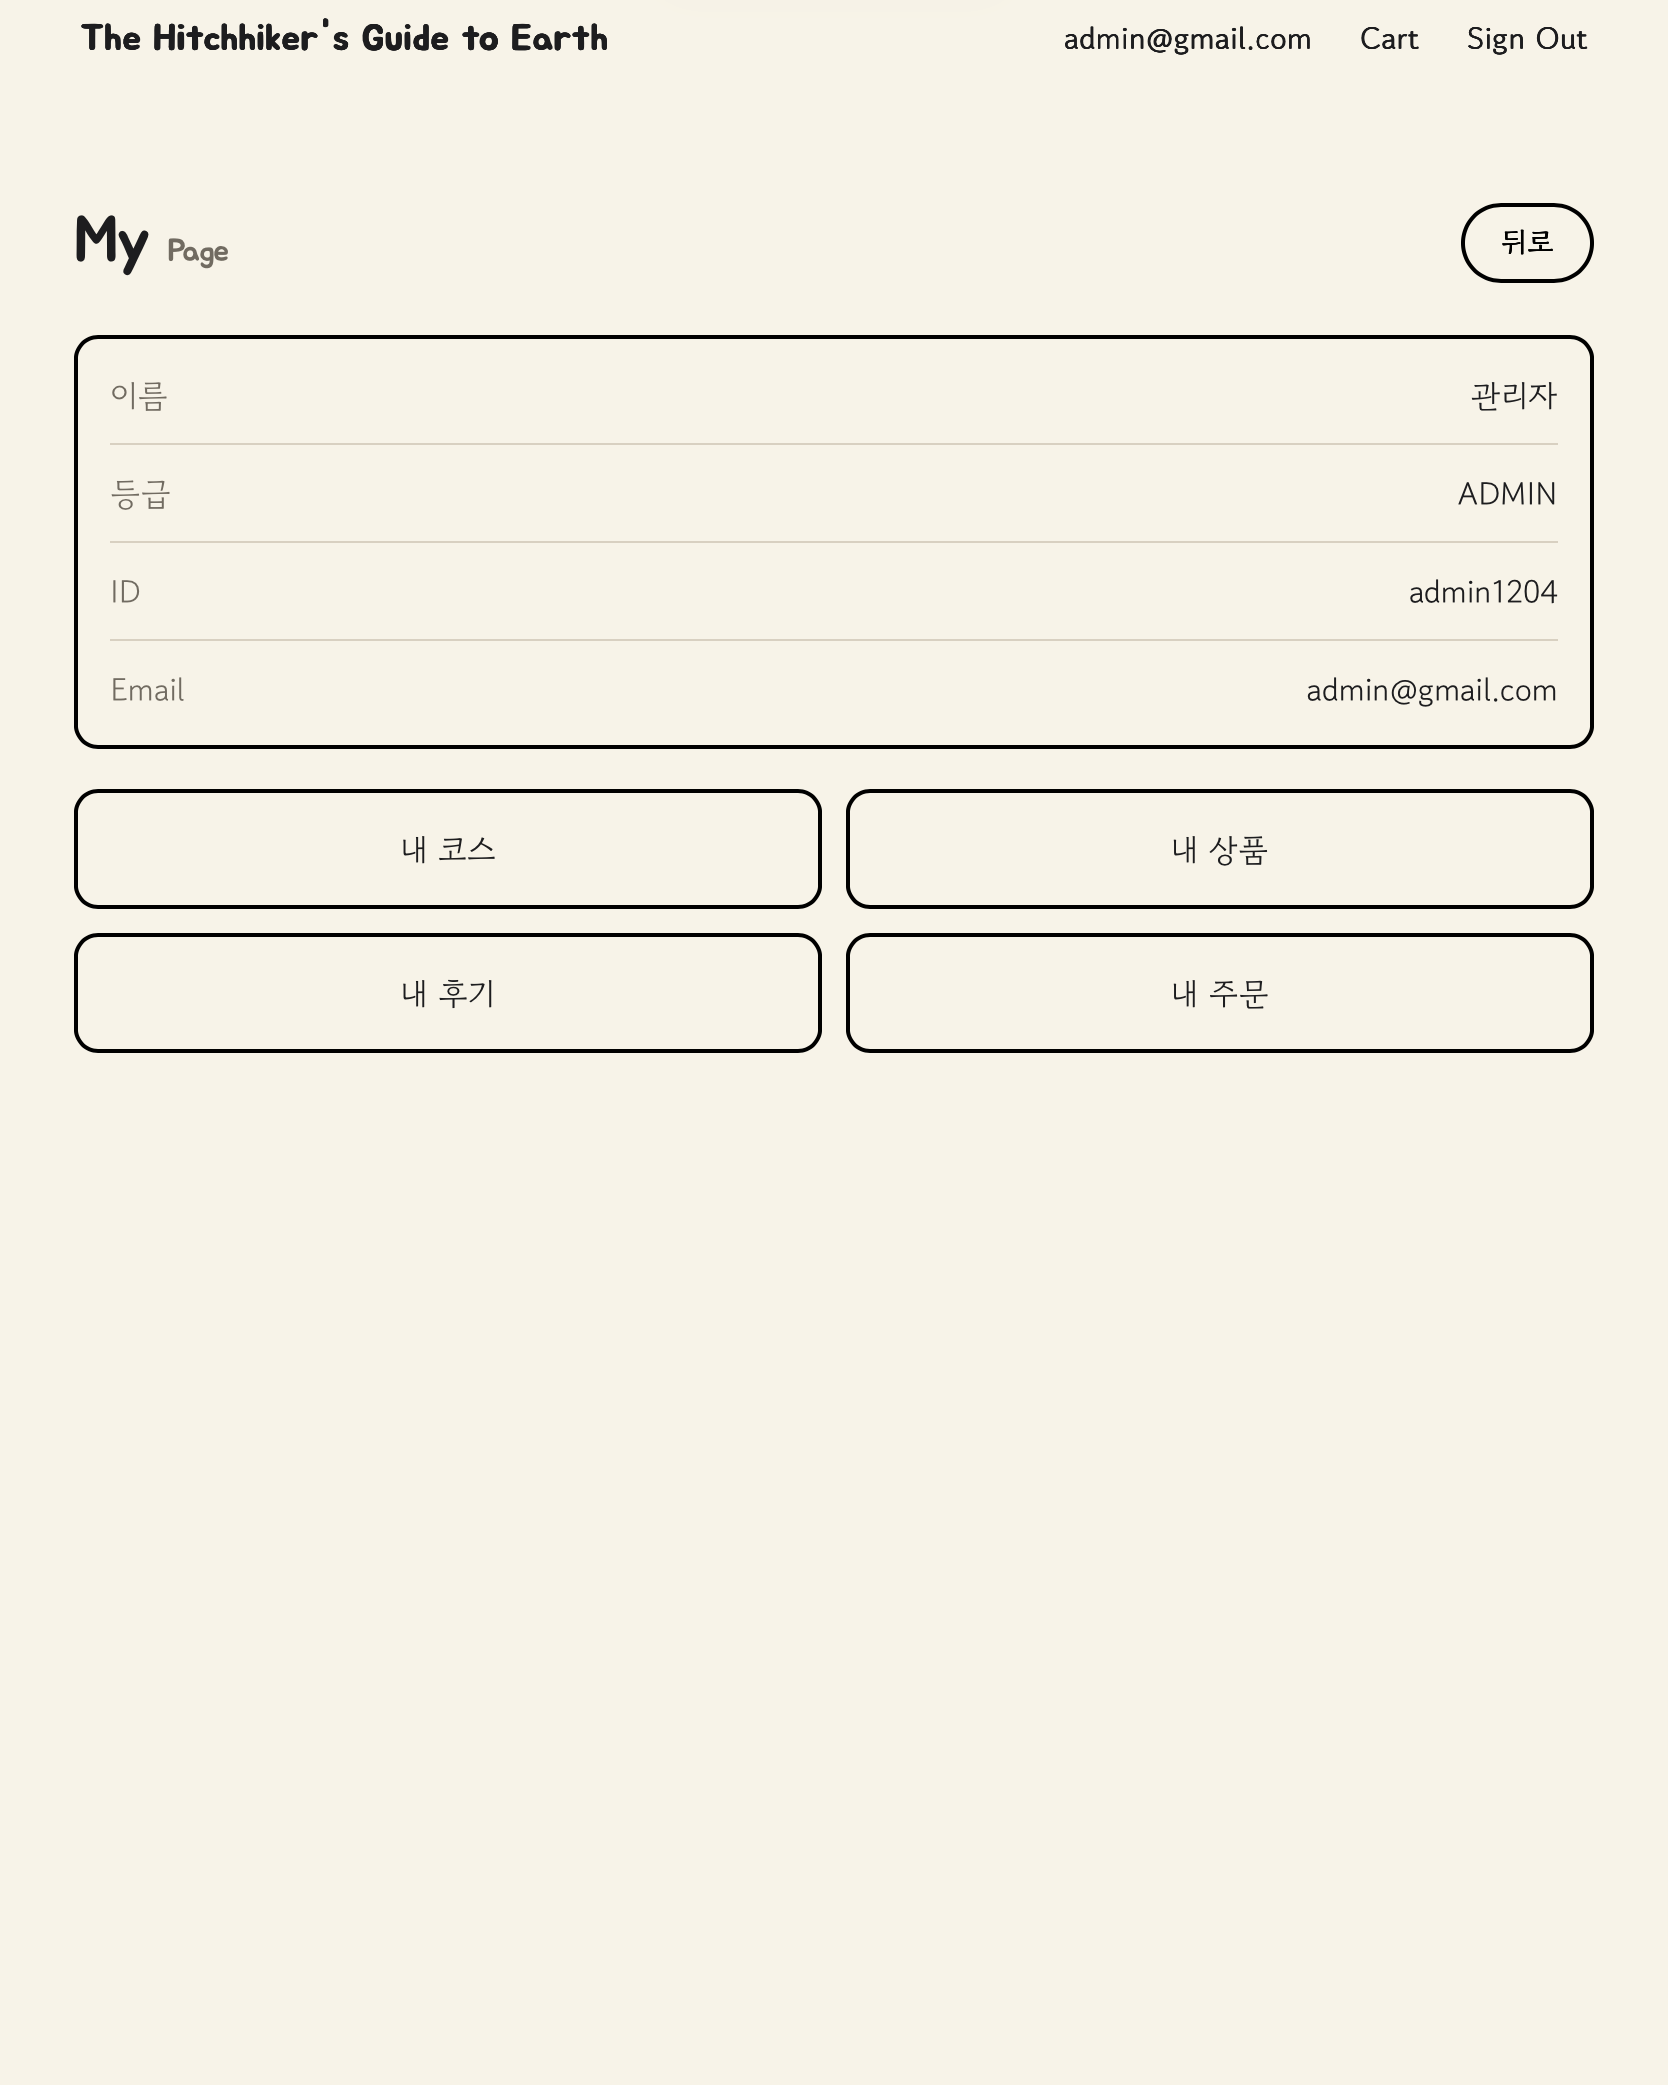
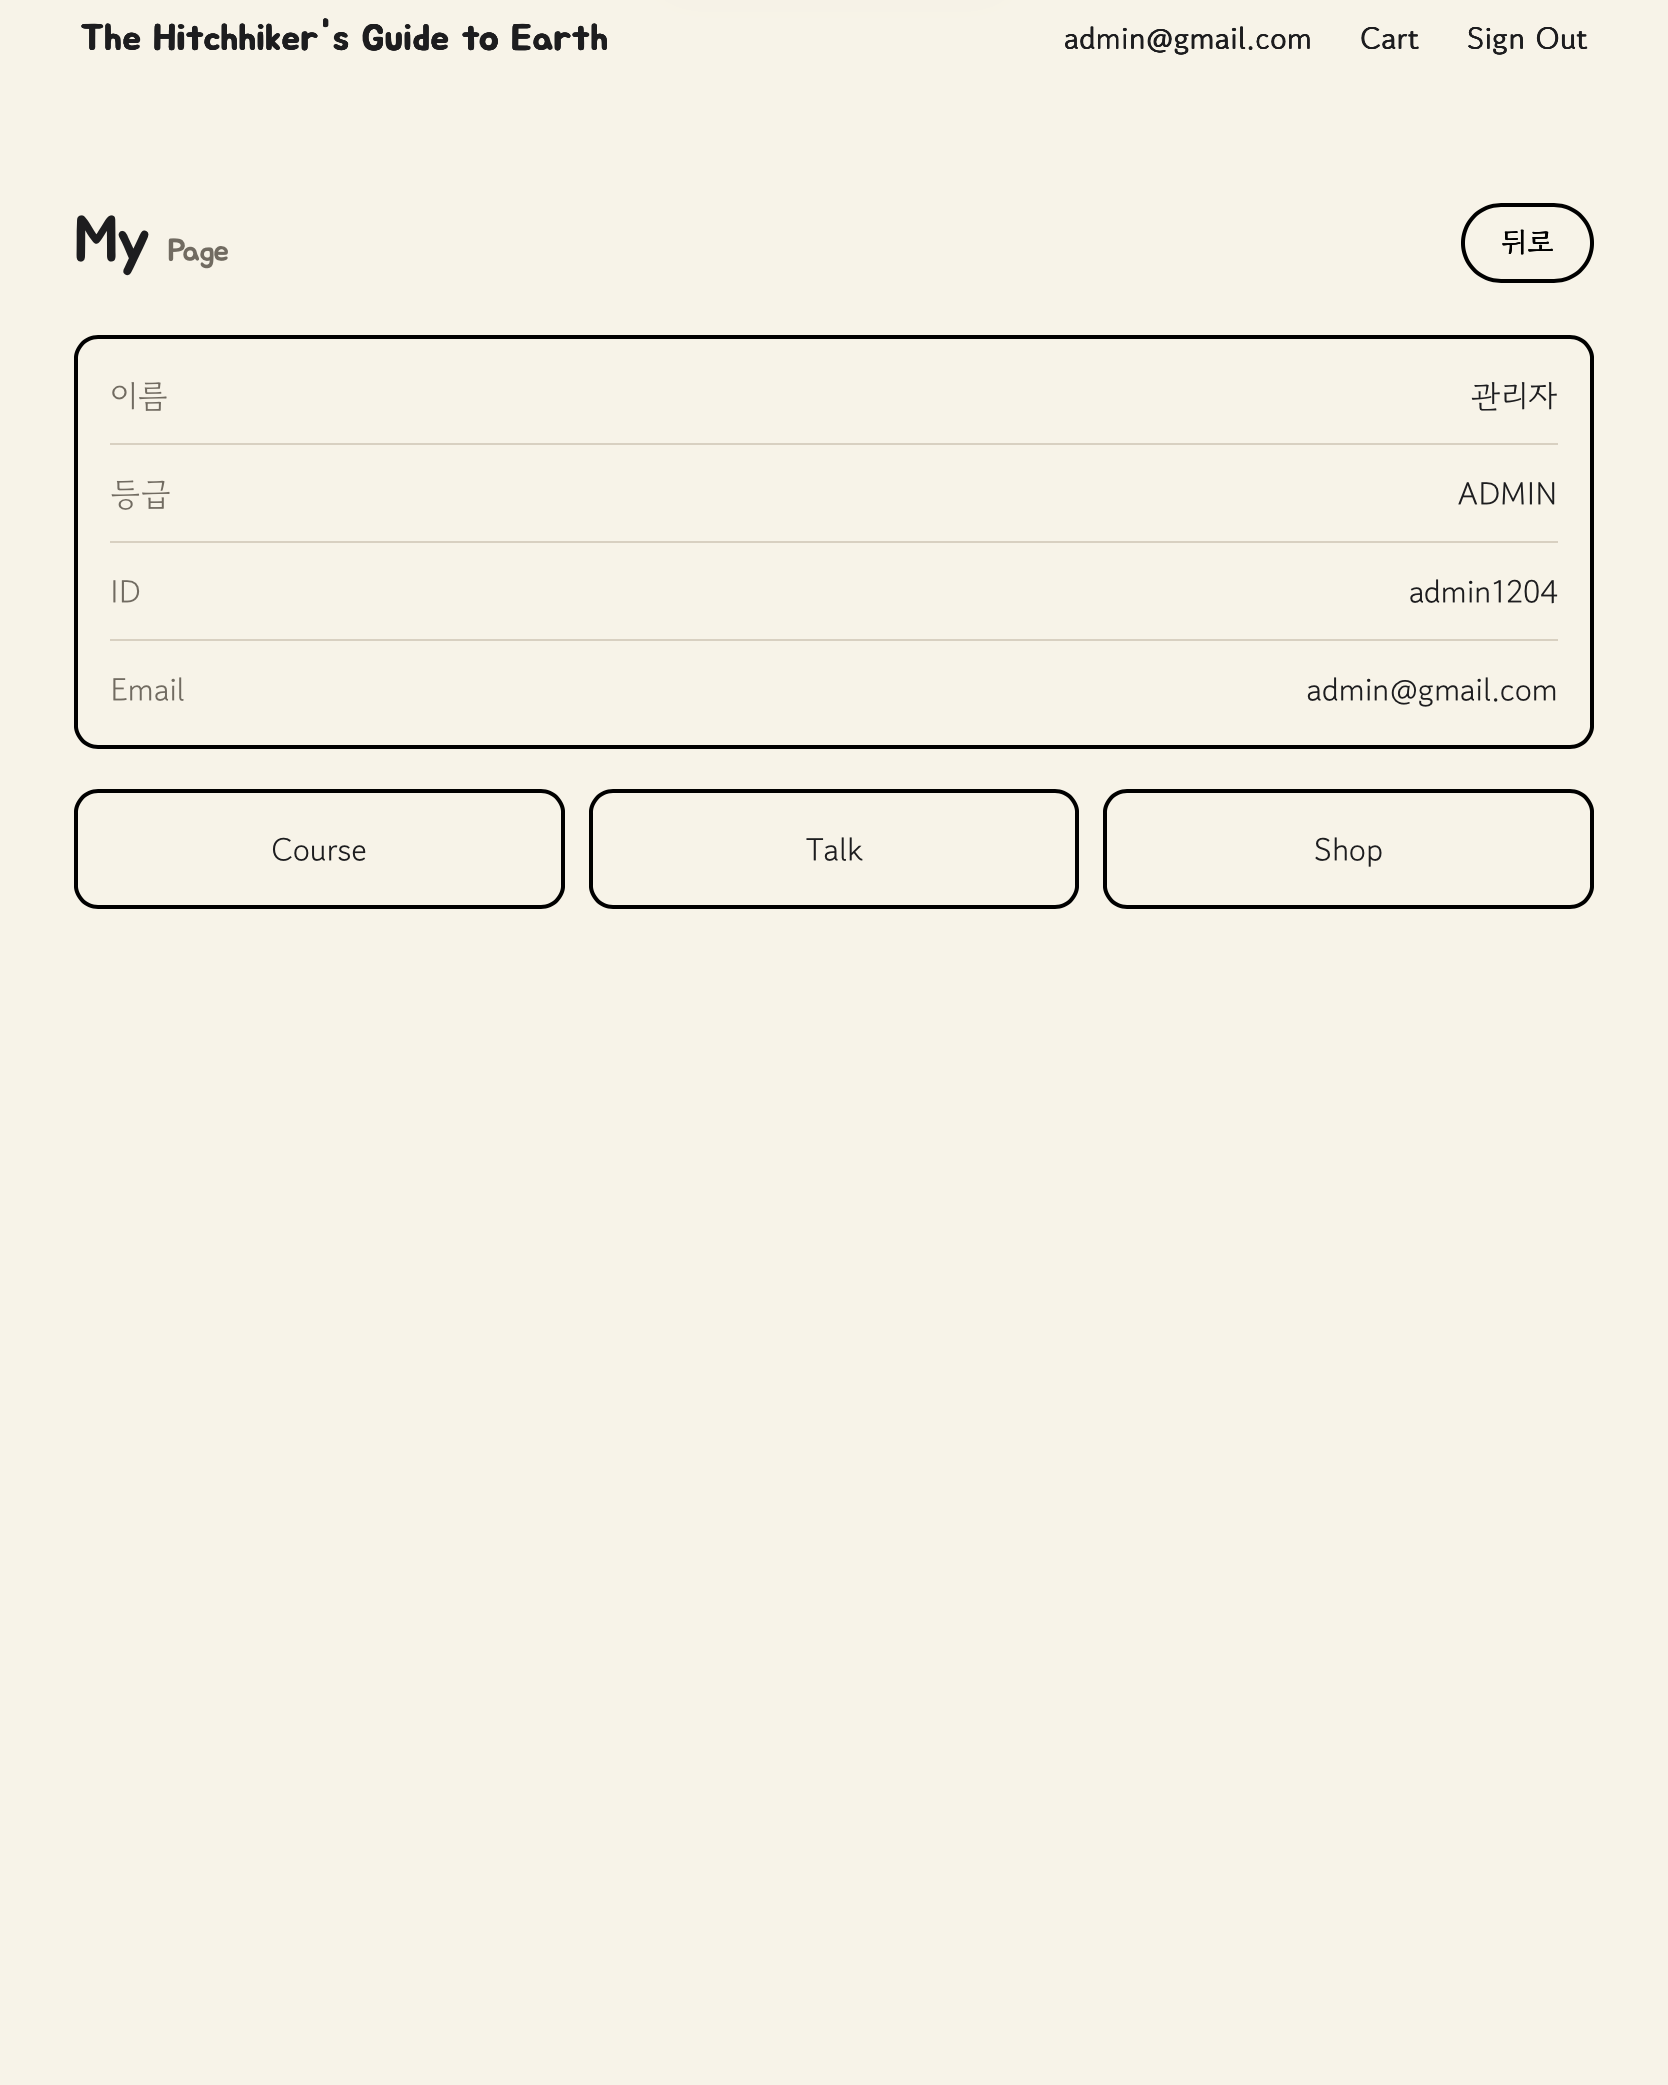
docs: update README

diff --git a/commerce-service/README.md b/commerce-service/README.md
@@ -3,12 +3,11 @@
 ### 산책 경로 공유 서비스
 
 주변 산책 경로를 찾고, 경로를 따라가며 발견한 장소와 후기를 공유하는 웹 서비스입니다. 
-
 채팅방에서 함께할 사람을 만나고, 커뮤니티와 중고 거래 상점에서 교류할 수 있습니다.
 
 ### 서비스 접속
 
-[decfour.dev 바로가기](https://decfour.dev)
+[decfour.dev](https://decfour.dev)
 
 | 프로젝트 | 내용 |
 |---|---|
@@ -21,10 +20,8 @@
 | 문서 | 확인할 내용 |
 |---|---|
 | [API 명세](doc/API_SPEC_PUBLIC.md) | HTTP·STOMP 경로, 요청·응답, 인증·권한, 페이징 |
-| [아키텍처](doc/ARCHITECTURE.md) | 전체 구조도, 기술 역할, 패키지와 주요 처리 흐름 |
 | [산책·채팅 ERD](doc/erd/course.md) | 경로·별점·후기·핀·채팅 데이터 관계 |
 | [기술적 판단과 개선 기록](doc/TECHNICAL_DECISIONS.md) | 성능 측정, 채팅 설계, 동시성·조회 개선 |
-| [예외 처리 기준](doc/EXCEPTION_HANDLING.md) | 업무 예외, HTTP 상태 코드, HTML·JSON 오류 응답 |
 | [테스트 안내](doc/TESTING.md) | 테스트 범위, 실행 명령, 테스트 DB 준비 |
 
 ## 사용 기술
@@ -69,7 +66,6 @@
 ## 시스템 아키텍처
 
 단일 Spring Boot 애플리케이션에서 화면·API·실시간 채팅을 처리합니다.<br>
-패키지 구성과 주요 요청 흐름은 [아키텍처 문서](doc/ARCHITECTURE.md)에서 확인할 수 있습니다.
 
 <img src="doc/image/architecture.png" alt="서비스 시스템 아키텍처" width="765">
 
@@ -112,26 +108,22 @@
   <img src="doc/image/chat_02.PNG" alt="실시간 채팅 화면" width="380">
 </p>
 
-### 커뮤니티
+### 커뮤니티 & 중고 장터
 
-게시글과 댓글로 산책 경험과 정보를 나누고 추천할 수 있습니다.<br>
-일반 게시글과 공지사항을 함께 확인하며, **추천 20개 이상인 게시글**은 HIT 목록에서 볼 수 있습니다.
-
-<img src="doc/image/talk_01.PNG" alt="공지사항과 커뮤니티 게시글 목록" width="640">
-
-### 상점
-
-중고 상품을 이미지와 함께 등록하고 상품 상세와 후기를 확인할 수 있습니다.<br>
-상품을 바로 주문하거나 장바구니에 모아 주문하고, 내 주문 내역에서 취소할 수 있습니다.
+게시글과 공지사항을 확인하며, **추천 20개 이상인 게시글**은 HIT 목록에서 볼 수 있습니다.
+중고 상품을 이미지와 함께 등록하고 상세 설명과 후기를 확인할 수 있습니다.<br>
 
 <p>
-  <img src="doc/image/shop_01.PNG" alt="중고 상품 목록" width="380">
-  <img src="doc/image/shop_02.PNG" alt="상품 상세와 주문" width="380">
+  <img src="doc/image/talk_01.PNG" alt="공지사항과 커뮤니티 게시글 목록" width="380">
+  <img src="doc/image/shop_01.PNG" alt="상품 상세와 주문" width="380">
 </p>
 
-### 회원과 마이페이지
+### 마이페이지
 
 회원가입·로그인 후 산책 경로 등록, 후기 작성, 채팅 참여 등의 활동을 이용할 수 있습니다<br>
 마이페이지에서는 **내 산책 경로·발견 장소 메모·참여 채팅방·후기·게시글·댓글·상품·주문 내역**을 모아 볼 수 있습니다.
 
-<img src="doc/image/mypage_01.PNG" alt="마이페이지 회원 정보와 활동 바로가기" width="640">
+<p>
+  <img src="doc/image/mypage_01.PNG" alt="마이페이지" width="380">
+  <img src="doc/image/mypage_02.PNG" alt="마이페이지 상세" width="380">
+</p>
